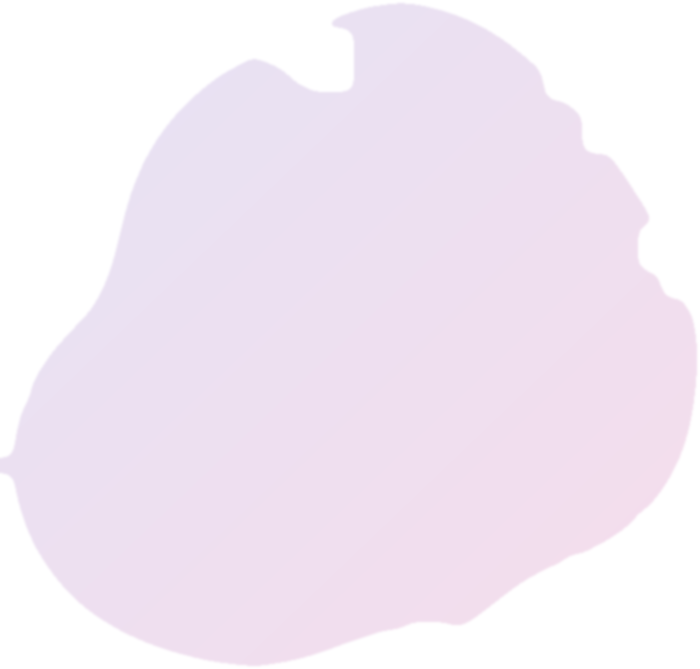
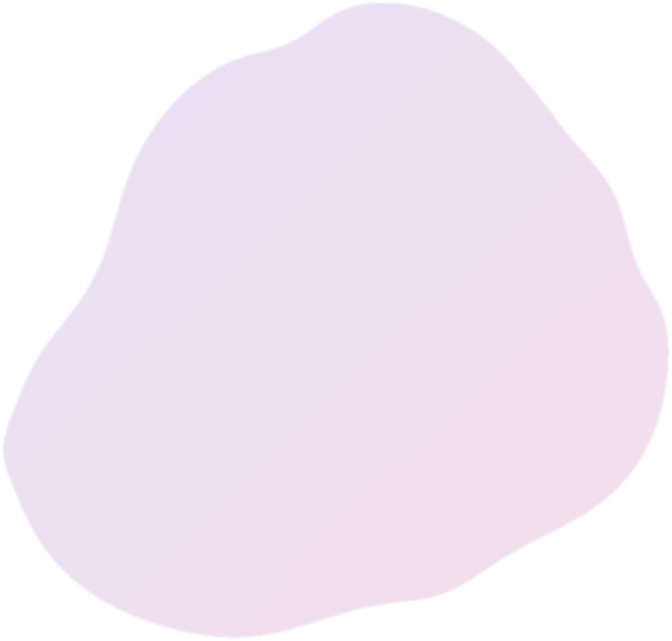
Refine Instagram posts for a more premium look
Centered editorial layout, hairline frame and photo outline, deep purple
icon circles, softer shadows and smoother photo shapes.

Claude-Session: https://claude.ai/code/session_01Y4xLTeejd6Revr1vrrAijT

diff --git a/marketing/instagram/source/style.css b/marketing/instagram/source/style.css
@@ -27,3 +27,24 @@ p .hl{font-weight:700;color:#C2398A}
 .card{flex:1;background:#fff;border-radius:32px;padding:80px 16px 28px;text-align:center;position:relative;box-shadow:0 20px 44px rgba(46,31,94,.08)}
 .ic{position:absolute;top:-64px;left:50%;transform:translateX(-50%);width:128px;height:128px;border-radius:50%;background:linear-gradient(145deg,#E2559A,#D580B6);display:flex;align-items:center;justify-content:center;border:7px solid #fff;box-shadow:0 14px 30px rgba(226,85,154,.30)}
 .cl{font:700 28px/1.3 'IBM Plex Sans Arabic';color:#2E1F5E;white-space:nowrap}
+/* --- luxe refinements --- */
+.glow{position:absolute;inset:0;background:radial-gradient(520px 420px at 88% 30%,rgba(242,167,208,.22),transparent 70%),radial-gradient(600px 500px at 10% 75%,rgba(129,130,190,.13),transparent 70%)}
+.frame{position:absolute;inset:36px;border:1.5px solid rgba(194,57,138,.18);border-radius:44px;pointer-events:none}
+.dots{left:84px;top:104px;gap:10px}.dots i{width:16px;height:16px}
+.hero{top:196px;width:500px;height:500px}
+.photo{filter:drop-shadow(0 40px 60px rgba(46,31,94,.20))}
+.blob-back{transform:translate(-22px,26px) rotate(-5deg);opacity:.9}
+.ring{position:absolute;left:-40px;top:-40px;width:580px;height:580px;object-fit:contain;transform:translate(22px,-18px) rotate(4deg) scale(1.04);z-index:3;opacity:.75}
+.c1{width:90px;height:90px;background:linear-gradient(145deg,#F7D9EB,#FBEAF3);right:-120px;top:120px}
+.c3{width:70px;height:70px;left:-110px;bottom:-10px}
+.badge{left:-120px;bottom:64px;padding:14px 24px 14px 20px;font-size:26px;box-shadow:0 20px 50px rgba(46,31,94,.12);border:1px solid rgba(213,128,182,.25)}
+.text{top:740px;text-align:center}
+.label{justify-content:center;gap:12px;font-size:28px;letter-spacing:0}
+.label b{width:60px;height:1.5px;background:linear-gradient(90deg,transparent,#D580B6)}
+.label b:last-child{background:linear-gradient(270deg,transparent,#D580B6)}
+.label em{display:inline-block;width:9px;height:9px;background:#D580B6;transform:rotate(45deg);border-radius:2px}
+h1{margin-top:4px}
+p{margin-top:6px;color:#4B4270}
+.cards{top:1056px;gap:22px}
+.card{background:rgba(255,255,255,.88);border:1px solid rgba(129,130,190,.16);box-shadow:0 24px 60px rgba(46,31,94,.07);padding:80px 16px 28px}
+.ic{background:radial-gradient(circle at 30% 25%,#4B3A8C,#2E1F5E 70%);border:6px solid #fff;box-shadow:0 16px 34px rgba(46,31,94,.28),inset 0 0 0 1.5px rgba(242,167,208,.35)}

diff --git a/marketing/instagram/source/build.py b/marketing/instagram/source/build.py
@@ -20,20 +20,20 @@ posts=[
 ]
 CSS=(D/'style.css').read_text()
 for p in posts:
-    cats=''.join(f'<div class="card"><div class="ic">{icon(i,"#fff",60)}</div><div class="cl">{t}</div></div>' for i,t in p['cats'])
+    cats=''.join(f'<div class="card"><div class="ic">{icon(i,"#F2A7D0",60)}</div><div class="cl">{t}</div></div>' for i,t in p['cats'])
     html=f'''<!doctype html><html lang="ar" dir="rtl"><head><meta charset="utf-8">
 <link href="https://fonts.googleapis.com/css2?family=Alexandria:wght@800&family=IBM+Plex+Sans+Arabic:wght@500;600;700&display=block" rel="stylesheet">
-<style>{CSS}</style></head><body><div class="post">
+<style>{CSS}</style></head><body><div class="post"><div class="glow"></div><div class="frame"></div>
 <div class="hero">
   <img class="blob-back" src="{p['hero'].replace('hero','back')}.png">
   <img class="photo" src="{p['hero']}.png">
-  <div class="sparks"><i></i><i></i><i></i></div>
-  <div class="c c1"></div><div class="c c2"></div><div class="c c3"></div>
+  
+  <img class="ring" src="{p['hero'].replace('hero','ring')}.png"><div class="c c1"></div><div class="c c3"></div>
   <div class="badge">{icon('map-pin','#E2559A',30)}<span>سلطنة عُمان</span></div>
 </div>
 <div class="dots"><i></i><i></i></div>
 <div class="text">
-  <div class="label"><b></b>{p['label']}</div>
+  <div class="label"><b></b><em></em>{p['label']}<em></em><b></b></div>
   <h1>{hl(p['title'])}</h1>
   <p>{hl(p['body'])}</p>
 </div>
